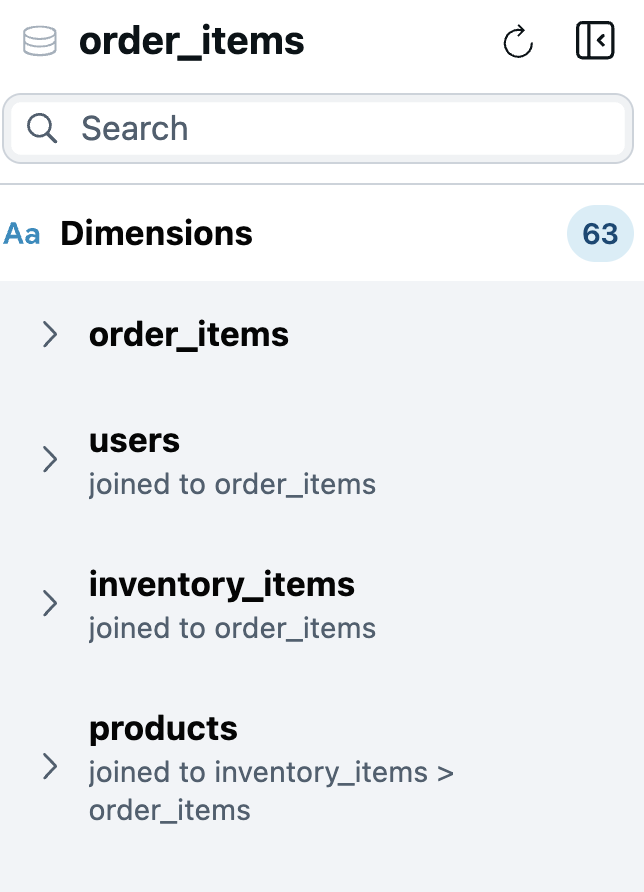
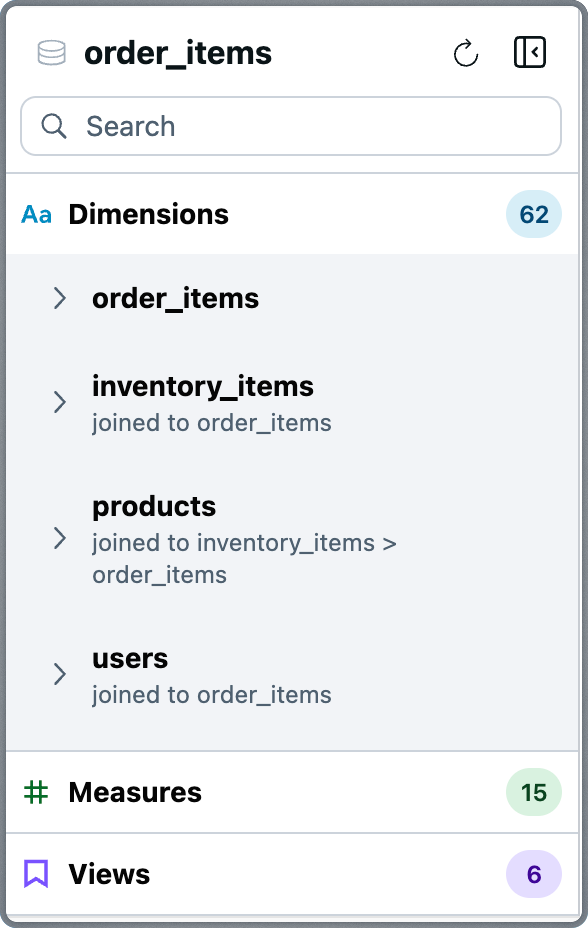
docs: overhaul explorer readme with new screenshots and copy

diff --git a/READMEs/explorer.md b/READMEs/explorer.md
@@ -2,22 +2,36 @@
 
 ## 1. Introduction
 
-**Malloy Explorer** is a no-code, visual query builder built on top of the [Malloy](https://malloydata.dev) semantic modeling language. It provides a seamless interface for exploring data, analyzing key business metrics, and building reusable queries — all without writing code. Under the hood, every action in the Explorer generates valid Malloy, ensuring semantic consistency, auditability, and AI-readiness.
+**Malloy Explorer** is a no-code, visual query builder built on top of the [Malloy](https://malloydata.dev) semantic modeling language. It provides a seamless interface for exploring data, analyzing key business metrics, and building reusable queries — all without writing code. Under the hood, every action in the Explorer generates valid Malloy, ensuring semantic consistency & trust while enabling flexible data exploration.
 
-Designed for data consumers and developers alike, Malloy Explorer brings the power of governed semantic models to a modern, interactive user experience. It empowers users to ask complex questions, segment and visualize results, and drill into nested structures — all from a single interface.
+Designed for data consumers and developers alike, Malloy Explorer brings the power of governed semantic models to a modern, interactive user experience. It empowers users to ask complex questions, segment and visualize results, and drill into the details with nested structures — all from a single interface.
 
 ### Key Benefits
 
-- **Semantic-first foundation** – Every query runs against a Malloy model, capturing business logic and relationships.
+- **Semantic-first foundation** – Every query runs against a Malloy model, which captures the business meaning and relationships of the data.
 - **No-code UX** – Construct queries visually using dimensions, measures, filters, and charts.
 - **Live, nested analysis** – Easily drill down into rich multi-level breakdowns using Malloy's native nesting capabilities.
-- **Full transparency** – Instantly view the Malloy and SQL generated by your visual query.
-- **AI and developer ready** – Output is valid Malloy code, making it composable, reusable, and LLM-consumable.
+- **Full transparency** – View the Malloy and SQL generated by your visual query.
+- **AI and developer ready** – All queries are valid Malloy code, making them composable, reusable, and LLM-consumable.
+- **Guaranteed correct metrics** - Malloy supports **symmetric aggregates**, ensuring that metrics compute correctly even across joins with varying cardinality. This eliminates common errors found in traditional SQL-based tools. ([Learn more](https://cloud.google.com/looker/docs/best-practices/understanding-symmetric-aggregates))
+
+### How to view the Explorer
+
+Malloy Explorer is available in the Malloy VS Code extension. You can install it from the [Marketplace](https://marketplace.visualstudio.com/items?itemName=malloydata.malloy-vscode).
+
+To open the Explorer, you can:
+- Open the command palette (Ctrl+Shift+P or Cmd+Shift+P) and type "Malloy Explorer".
+
+![Explorer Entry Point](explorer-screenshots/explorer-entry-from-command-palette.png)
+
+- Click the Malloy Explorer located above a source in a malloy model file.
+
+![Explorer Entry Point](explorer-screenshots/explorer-entry-from-malloy-file-hover.png)
 
 ### Interface Overview
 
 Malloy Explorer is organized into three main panels:
-1. **Source Panel** – Browse available fields, measures, and saved views from the semantic model.
+1. **Source Panel** – Browse available dimensions, measures, and views from the semantic model. 
 2. **Query Panel** – Assemble and refine your query using a clean visual editor.
 3. **Results Panel** – View results as tables or charts, and inspect the underlying Malloy and SQL.
 
@@ -31,12 +45,12 @@ The **Source Panel** is where exploration begins. It presents the structure of t
 
 The panel is organized into three sections:
 - **Dimensions** – Attributes you can group by, filter on, or sort with.
-- **Measures** – Predefined aggregated metrics.
-- **Views** – Saved queries or perspectives authored in the model.
-
-Any field or view selected here will immediately appear in the **Query Panel**, ready to run or modify.
+- **Measures** – Predefined metrics you can aggregate, filter on, or sort with.
+- **Views** – Saved queries or perspectives authored in the model and ready to run. 
 
 ![Source Panel](explorer-screenshots/source-panel.png)
+
+Hovering over a field or view in the Source Panel will show actions you can take to add it to your query - selections will immediately appear in the **Query Panel**, ready to run or modify.
 
 ### Dimensions
 
@@ -49,6 +63,8 @@ Hovering over a dimension reveals contextual actions:
 - **Add as Filter** – Apply a filter based on the field.
 - **Add as Sort** – Sort the result set by this value.
 
+![Source Panel Dimension Hover Actions](explorer-screenshots/source-panel-dimension-hover-groupby.png)
+
 ### Measures
 
 The **Measures** section contains all aggregated metrics available in the current model. These are grouped by source and include calculations such as totals, averages, counts, and ratios.
@@ -58,17 +74,19 @@ Hovering over a measure provides the following actions:
 - **Add as Filter** – Use the measure to restrict the result set.
 - **Add as Sort** – Sort results based on the metric value.
 
-#### Symmetric Aggregates
-
-Malloy supports **symmetric aggregates**, ensuring that metrics compute correctly even across joins with varying cardinality. This eliminates common errors found in traditional SQL-based tools and guarantees reliable, reusable aggregations.
-
-Learn more: [Understanding symmetric aggregates](https://cloud.google.com/looker/docs/best-practices/understanding-symmetric-aggregates)
+![Source Panel Measures Hover Actions](explorer-screenshots/source-panel-measure-hover-aggregate.png)
 
 ### Views
 
-The **Views** section surfaces saved queries defined in the underlying Malloy model. These views often represent curated KPIs, commonly-used explorations, or analytical building blocks.
+The **Views** section surfaces saved queries defined in the underlying Malloy model. These views often represent curated KPIs, commonly-used explorations, or analytical building blocks. Views can be a good starting point for your queries, or may be useful to nest within your query to dive deeper.
 
-Clicking a view loads its full query into the **Query Panel**, where it can be run, modified, or used as a base for deeper exploration.
+Hovering over a view provides the following actions:
+- **Add to Query** – Add the view to your query.
+- **Add as Nested Query** – Add the view to your query as a nested query.
+
+![Source Panel View Hover Actions](explorer-screenshots/source-panel-view-hover-add-to-query.png)
+
+Clicking a view loads its full query into the **Query Panel**, where it can be run, modified, or used as a base for deeper exploration. If a query is already open, the view will be added to the query as a nested query.
 
 ---
 
@@ -76,13 +94,21 @@ Clicking a view loads its full query into the **Query Panel**, where it can be r
 
 The **Query Panel** is where queries come together. It provides a structured, visual representation of your query — and supports far more than basic field selection.
 
-### Top Controls
+### Top Components
 
 - **Run Button** – Executes the query and displays the result.
 - **Clear Button** – Removes the current query configuration.
-- **More Actions Menu (`...`)** – Includes:
-  - **Clear Query**
-  - **Nest Query** (used to add subqueries — see below)
+- **Source** – Displays the source the query is running against.
+- **Main query**
+  
+  - **Add Query Element** (`+`)
+  - **More Actions Menu (`...`)** – Includes:
+    - **Clear Query**
+    - **Nest Query** (used to add subqueries — see below)
+  - **Chart Type Selector** – Select the type of chart to display the results.
+  - **Query display** – Displays the current query you've built.
+
+![Query Panel Example](explorer-screenshots/query-panel-with-query.png)
 
 ### Add Query Element (`+`)
 
@@ -92,12 +118,11 @@ This menu allows you to add fields and logic by *operation*, rather than by data
 - **Add Aggregate**
 - **Add Filter**
 - **Add View**
-- **Add Limit**
+- **Limit**
 - **Order By**
 - **Add Blank Nested Query**
 
-![Add Query Element](explorer-screenshots/query-add-element.png)
-![Add Query Element Full Menu](explorer-screenshots/add-query-element-full-menu.png)
+![Add Query Element](explorer-screenshots/query-panel-add-action.png)
 
 ### Display Format Selector
 
@@ -105,6 +130,7 @@ Choose how to visualize your results. Available formats include:
 
 - Table
 - Bar Chart
+- Dashboard
 - Line Chart
 - JSON
 - List / List Detail
@@ -113,7 +139,7 @@ Choose how to visualize your results. Available formats include:
 - Scatter Chart
 - Segment Map
 
-![Query Panel Format Selector](explorer-screenshots/query-panel-format-selector.png)
+![Query Panel Format Selector](explorer-screenshots/query-panel-chart-selector.png)
 
 ### Query Configuration
 
@@ -125,9 +151,11 @@ Your current query is displayed using clearly labeled sections:
 - **Order By**
 - **Limit**
 
-![Full Query Panel](explorer-screenshots/query-panel-full-query.png)
-
 Each section reflects the logic of your query and is fully editable.
+
+Hovering over a section will show another way to add elements to the query.
+
+![Query Panel Hover Actions](explorer-screenshots/query-panel-hover-groupby.png)
 
 ---
 
@@ -135,11 +163,15 @@ Each section reflects the logic of your query and is fully editable.
 
 Malloy's **nesting** feature enables rich, multidimensional analysis — and the Explorer gives you a no-code way to use it.
 
-To add a nested query:
-- Open the **More Actions** menu
-- Select **Nest Query**
+To add a nested query, either:
+- Select **Nest Query** from the Query Panel **More Actions** menu.
+- Hover over a view in the Source Panel and select **Add as Nested Query**.
 
-Each nested block can have its own groupings, filters, measures, and even additional nests.
+![Query Panel Nest Action](explorer-screenshots/query-panel-more-nest.png)
+
+Each nested block can have its own groupings, aggregates, filters, ordering and even additional nests.
+
+![Building a Nested Query](explorer-screenshots/query-panel-build-nested-query.png)
 
 Use nesting to:
 - Break down results by subgroups
@@ -158,28 +190,22 @@ The **Results Panel** displays your query output whenever you click **Run**. Res
 
 ### Visual Output
 
-Choose from a range of formats, including:
-- Tables
-- Bar, Line, and Scatter Charts
-- Maps
-- Lists
-- Dashboards
-- JSON
+The Results Panel renders results in the format specified by in the query above (e.g., table, chart, dashboard, etc.).
 
-![Results Panel](explorer-screenshots/results-panel.png)
+![Example Results Panel](explorer-screenshots/results-panel.png)
 
-Nested queries produce expandable subtables or inline charts that show multidimensional breakdowns per row.
+Nested queries produce expandable sub-tables or inline charts that show multidimensional breakdowns per row.
 
 ### Code Transparency
 
 Alongside visual output, the Results Panel includes:
 **Malloy Tab** – Shows the Malloy query generated by your visual configuration.
 
-![Generated Malloy View](explorer-screenshots/generated-malloy-view.png)
+![Generated Malloy View](explorer-screenshots/results-malloy.png)
 
 **SQL Tab** – Displays the fully compiled SQL sent to the database.
 
-![Generated SQL View](explorer-screenshots/generated-SQL-view.png)
+![Generated SQL View](explorer-screenshots/results-sql.png)
 
 This transparency gives developers, analysts, and AI systems full access to inspect, reproduce, or extend any query.
 
@@ -187,11 +213,13 @@ This transparency gives developers, analysts, and AI systems full access to insp
 
 ## Summary
 
-Malloy Explorer brings together semantic modeling and visual analytics in a single, ergonomic interface. It offers:
+Malloy Explorer combines semantic modeling with a powerful, no-code visual interface for data exploration. It enables you to:
 
-- A governed foundation for consistent metrics
-- A no-code interface for intuitive exploration
-- Deep analytical power through nesting
-- Transparent, portable output for trust and reuse
+- Build and run queries visually, without writing code
+- Use governed metrics and reusable models for consistency
+- Analyze data across multiple dimensions with nested queries
+- Instantly view results as tables or charts, including expandable sub-tables
+- Inspect generated Malloy and SQL code for transparency and reproducibility
+- Rely on symmetric aggregates for accurate, consistent results as you drill in and out
 
 With Malloy Explorer, everyone can ask better questions — and trust the answers.
